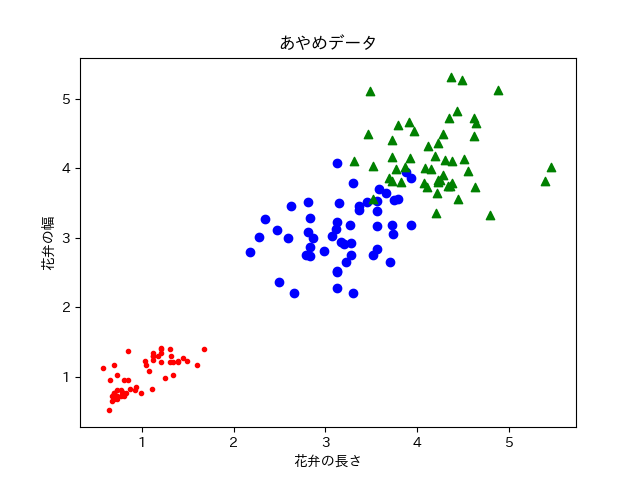
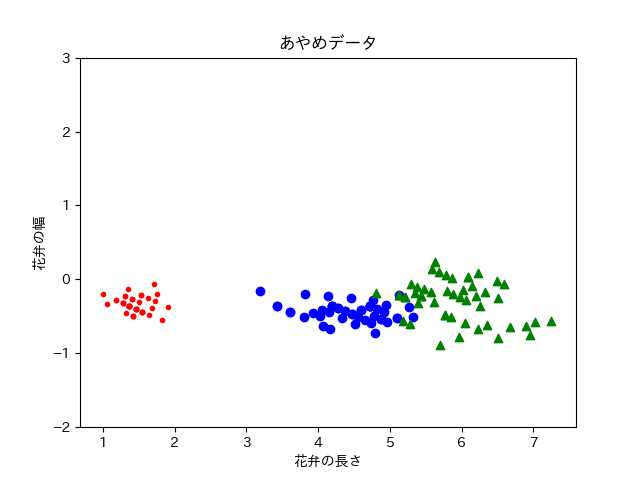
fix

diff --git a/ch04/decorrelation.py b/ch04/decorrelation.py
@@ -5,44 +5,34 @@ import numpy as np
 import matplotlib.pyplot as plt
 
 if __name__ == "__main__":
+  # 必要なデータのロード
   setosa, versicolour, virginica = load_iris()
-  
-  setosa_N = len(setosa)
-  versicolour_N = len(versicolour)
-  virginica_N = len(virginica)
-
   all_data = np.array(setosa + versicolour + virginica, dtype=np.float32)
   N = all_data.shape[0]
 
+  # 平均と分散を計算する
   length, width = all_data[:, 0], all_data[:, 1]
   mu_l, mu_w = np.mean(length), np.mean(width)
   mu = np.array([mu_l, mu_w], dtype=np.float32)
   sigma_ll = (1/N) * np.sum((length - mu_l)**2)
   sigma_lw = (1/N) * np.sum((length - mu_l)*(width - mu_w))
   sigma_ww = (1/N) * np.sum((width - mu_w)**2)
-
   sigma = np.array([[sigma_ll, sigma_lw], [sigma_lw, sigma_ww]], dtype=np.float32)
-  result = np.linalg.eig(sigma)
-  for i in range(len(result[1])):
-    result[1][i] = result[1][i] / np.linalg.norm(result[1][i])
-  import ipdb; ipdb.set_trace()
-  lambdas, S_t = result[0], result[1].T
-  y = all_data @ S_t
 
-  # divide y with length, and width
+  # 固有値と固有ベクトルの計算
+  lambdas, S = np.linalg.eig(sigma)
+  y = np.dot(S.T, all_data.T).T
+
+  # x軸成分とy軸成分に分解
   n_length = y[:, 0]
   n_width = y[:, 1]
 
   # plot
-  setosa = np.concatenate((n_length[:setosa_N], n_width[:setosa_N])).reshape(setosa_N, 2)
-  versicolour = np.concatenate((n_length[setosa_N:setosa_N+versicolour_N], n_width[setosa_N:setosa_N+versicolour_N])).reshape(versicolour_N, 2)
-  virginica = np.concatenate((n_length[setosa_N+versicolour_N:], n_width[setosa_N+versicolour_N:])).reshape(virginica_N, 2)
-  
-  # plot
   plt.clf()
-  plt.scatter(setosa[:, 0], setosa[:, 1], marker='.', color='red')
-  plt.scatter(versicolour[:, 0], versicolour[:, 1], marker='o', color='blue')
-  plt.scatter(virginica[:, 0], virginica[:, 1], marker='^', color='green')
+  plt.scatter(n_length[:50], n_width[:50], marker='.', color='red')
+  plt.scatter(n_length[50:100], n_width[50:100], marker='o', color='blue')
+  plt.scatter(n_length[100:], n_width[100:], marker='^', color='green')
+  plt.ylim([-2.0, 3.0])
   plt.title('あやめデータ')
   plt.xlabel('花弁の長さ')
   plt.ylabel('花弁の幅')

diff --git a/ch04/normalization.py b/ch04/normalization.py
@@ -4,28 +4,13 @@ from common import load_iris, plot_scatter
 import numpy as np
 import matplotlib.pyplot as plt
 
-def plot(setosa, versicolour, virginica, path):
-  # before_normalization
-  plt.clf()
-  plot_scatter(setosa, marker='.', color='red')
-  plot_scatter(versicolour, marker='o', color='blue')
-  plot_scatter(virginica, marker='^', color='green')
-  plt.title('あやめデータ')
-  plt.xlabel('花弁の長さ')
-  plt.ylabel('花弁の幅')
-  plt.savefig(path)
-
 if __name__ == "__main__":
+  # データのロード
   setosa, versicolour, virginica = load_iris()
-  plot(setosa, versicolour, virginica, "results/original.png")
-
-  setosa_N = len(setosa)
-  versicolour_N = len(versicolour)
-  virginica_N = len(virginica)
-
   all_data = np.array(setosa + versicolour + virginica, dtype=np.float32)
   N = all_data.shape[0]
 
+  # 平均と分散の計算
   length, width = all_data[:, 0], all_data[:, 1]
   mu_l, mu_w = np.mean(length), np.mean(width)
   mu = np.array([mu_l, mu_w], dtype=np.float32)
@@ -36,16 +21,12 @@ if __name__ == "__main__":
   # normalization
   n_length = (length - mu_l) / np.sqrt(sigma_ll)
   n_width = (width - mu_w) / np.sqrt(sigma_ww)
-
-  setosa = np.concatenate((n_length[:setosa_N], n_width[:setosa_N])).reshape(setosa_N, 2)
-  versicolour = np.concatenate((n_length[setosa_N:setosa_N+versicolour_N], n_width[setosa_N:setosa_N+versicolour_N])).reshape(versicolour_N, 2)
-  virginica = np.concatenate((n_length[setosa_N+versicolour_N:], n_width[setosa_N+versicolour_N:])).reshape(virginica_N, 2)
   
   # plot
   plt.clf()
-  plt.scatter(setosa[:, 0], setosa[:, 1], marker='.', color='red')
-  plt.scatter(versicolour[:, 0], versicolour[:, 1], marker='o', color='blue')
-  plt.scatter(virginica[:, 0], virginica[:, 1], marker='^', color='green')
+  plt.scatter(n_length[:50], n_width[:50], marker='.', color='red')
+  plt.scatter(n_length[50:100], n_width[50:100], marker='o', color='blue')
+  plt.scatter(n_length[100:], n_width[100:], marker='^', color='green')
   plt.title('あやめデータ')
   plt.xlabel('花弁の長さ')
   plt.ylabel('花弁の幅')
